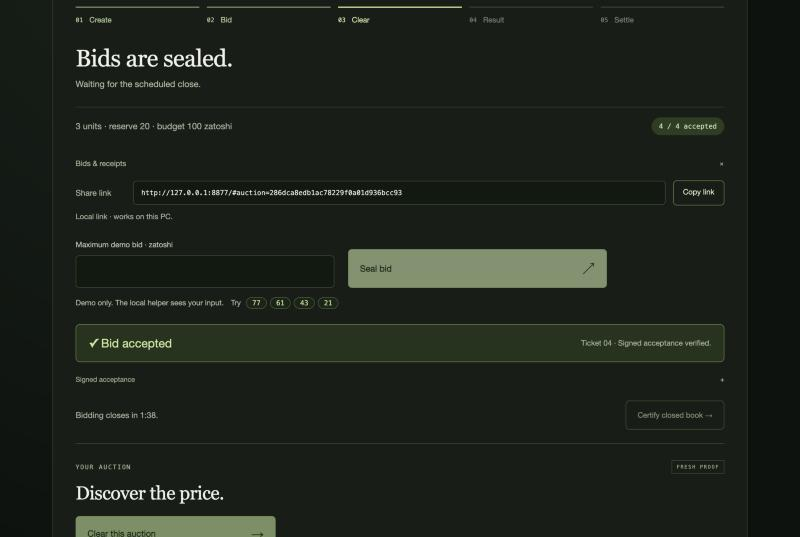
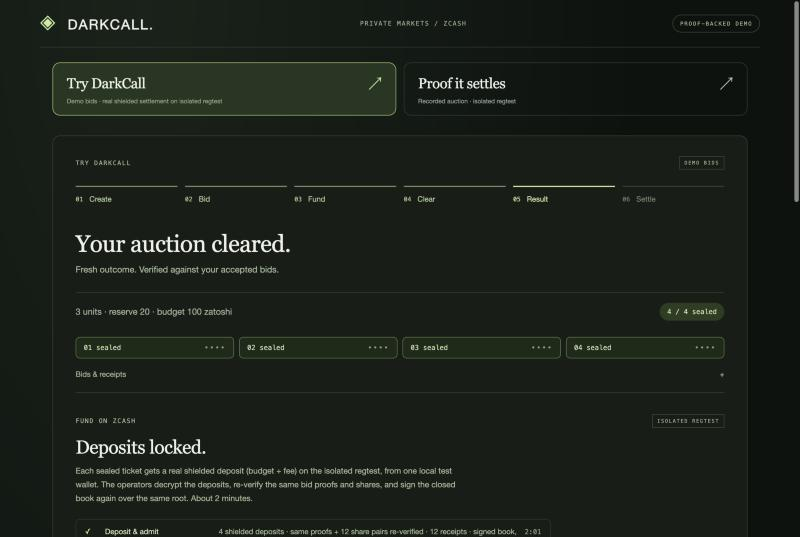
Make the first 20 seconds and every next step obvious
Landing now contrasts a typical audited auction (opens every bid) with
DarkCall (proves the price without opening bids). In the auction, a sticky
six-step bar keeps orientation, four sealed slots show hidden bids, clearing
appears only when it is the next real step, the page scrolls to each next
primary action and to errors, the clearing result states that no bid was
reconstructed, and the payment status reflects real locked deposits. Browser
check: create, four bids, certify, fund (deposits 59c06325...), clear (9.4 s),
with the new layout; README screenshots refreshed.

diff --git a/demo/app.js b/demo/app.js
@@ -141,7 +141,14 @@ function pickTicket(value) {
   refreshRoom();
 }
 const integer = id => { const text=$(id).value; if (!/^\d+$/.test(text)) throw new Error('Use whole-number demo values.'); return Number(text); };
-function rehearsalError(message) { $('rehearsal-error').textContent=message; $('rehearsal-error').hidden=!message; }
+function rehearsalError(message) { $('rehearsal-error').textContent=message; $('rehearsal-error').hidden=!message; if (message) $('rehearsal-error').scrollIntoView({behavior:'smooth',block:'center'}); }
+// Bring the next primary action into view after a step completes.
+function focusNext(id) { const node=$(id); if (node && !node.hidden) setTimeout(()=>node.scrollIntoView({behavior:'smooth',block:'center'}),150); }
+function renderSlots() {
+  const slots=$('sealed-slots'); if (!room) { slots.replaceChildren(); return; }
+  slots.replaceChildren(...[0,1,2,3].map(i=>{ const filled=i<room.accepted; const node=element('span',''); node.className=filled?'filled':'';
+    node.append(document.createTextNode(String(i+1).padStart(2,'0')+' '+(filled?'sealed':'open')),element('b',filled?'••••':'—')); return node; }));
+}
 function refreshRoom() {
   const available=Boolean(state && state.local_rehearsal_available);
   $('create-auction').disabled=busy || !available;
@@ -157,7 +164,8 @@ function refreshRoom() {
   if (!room) return;
   const remaining=Math.max(0,room.closes_at_utc-Math.floor(Date.now()/1000));
   $('room-terms').textContent=room.units+' units · reserve '+room.reserve+' · budget '+room.budget+' zatoshi';
-  $('room-count').textContent=room.accepted+' / 4 accepted';
+  $('room-count').textContent=room.accepted+' / 4 sealed';
+  renderSlots();
   $('maximum-bid').max=room.budget;
   $('seal-bid').disabled=busy || !available || room.stopped_after_incomplete_admission || remaining===0 || room.accepted>=4 || room.closed;
   $('close-auction').disabled=busy || !available || room.stopped_after_incomplete_admission || remaining>0 || room.accepted!==4 || room.closed;
@@ -167,10 +175,12 @@ function refreshRoom() {
   $('open-fresh-result').disabled=busy || settling || !room.clearing || !currentTicket();
   $('tamper-fresh').disabled=busy || settling || !room.clearing || !currentTicket();
   renderTicketPickers(); renderFunding();
+  // Clearing is shown once it is the next real step: after close, and after funding when required.
+  $('clearing-section').hidden=!room.closed || fundingPending;
   renderSettlement();
   $('clear-auction').hidden=Boolean(room.clearing);
   $('rehearsal-title').textContent=settled?'Your auction settled on Zcash.':room.clearing?'Your auction cleared.':room.closed?(fundingPending?'Fund the sealed book.':'Ready to clear.'):room.accepted===4?'Bids are sealed.':'Place your bid.';
-  document.querySelector('.rehearsal-scope').textContent=settled?'Same sealed book. One shielded transaction. Publicly verified.':room.clearing?'Fresh outcome. Verified against your accepted bids.':room.closed?(fundingPending?'Every sealed ticket gets a real shielded deposit before clearing.':'Four sealed bids. One verified outcome.'):room.accepted===4?'Waiting for the scheduled close.':'Use demo amounts. Get a signed acceptance.';
+  document.querySelector('.rehearsal-scope').textContent=settled?'Same sealed book. One shielded transaction. Publicly verified.':room.clearing?'Fresh outcome. Verified against your accepted bids.':room.closed?(fundingPending?'Every sealed ticket gets a real shielded deposit before clearing.':'Four sealed bids. One verified outcome.'):room.accepted===4?'Waiting for the scheduled close.':'Seal four demo bids. Each gets a ZK proof and three operator signatures.';
   $('close-status').textContent=room.stopped_after_incomplete_admission ? 'Admission stopped. The checkpoint is preserved.' : room.closed ? '✓ Closed bids certified.' :
     remaining>0 ? 'Bidding closes in '+Math.floor(remaining/60)+':'+String(remaining%60).padStart(2,'0')+'.' :
     room.accepted===4 ? 'Deadline reached. Confirm the accepted bids.' : 'Closed. Four tickets are required.';
@@ -191,7 +201,8 @@ async function rehearsalRequest(action,payload) {
   const result=await response.json(); if (!response.ok) throw new Error(result.error || 'Local rehearsal stopped.'); return result;
 }
 function resetFresh() {
-  $('rehearsal-label').textContent='DEMO BIDS';
+  $('rehearsal-label').textContent='DEMO BIDS'; fundedFocused=false; settledFocused=false;
+  for (const id of ['clearing-section','fund-section','settle-section']) $(id).hidden=true;
   freshClearingVerified=false; freshResultVerified=false; nativeResultVerified=false; $('book-details').open=true;
   $('native-result').className='result-box'; $('native-result').replaceChildren(element('h3','Your receipt is encrypted.'),element('p','Only your viewing key can open your memo in this transaction.'));
   $('native-tamper-result').textContent='';
@@ -218,7 +229,7 @@ $('clear-auction').addEventListener('click',async()=>{
   $('clearing-status').textContent='Clearing these secret shares and generating a fresh MPC proof…';
   try {
     const result=await rehearsalRequest('clear',{auction_id:room.auction_id});
-    renderFresh(result); room.clearing=result; room.fresh_clearing_verified=true;
+    renderFresh(result); room.clearing=result; room.fresh_clearing_verified=true; focusNext('open-fresh-result');
     $('rehearsal-status').textContent='';
     $('book-details').open=false;
   } catch(error) {
@@ -245,6 +256,7 @@ async function openFresh(action) {
       box.replaceChildren(element('h3',result.won?'YOU WON':'YOU LOST'),element('p',result.won?'1 unit @ '+result.price+' zatoshi':'No unit allocated. Your outcome is verified.'));
       const amounts=element('div','','receipt-amounts'), column=element('div','');
       column.append(element('span','Refund entitlement · zatoshi'),element('strong',String(result.refund))); amounts.append(column); box.append(amounts,element('p','✓ Your result verified'));
+      if (room.settlement_available && !room.settlement) focusNext('settle-auction');
     }
   } catch(error) {
     if (action==='open') {
@@ -260,13 +272,14 @@ async function openFresh(action) {
 const SETTLE_STEPS=[['mpc','settle_preflight:started','binding_key:started'],
   ['bindings','binding_key:started','mpc_verification:started'],['sign','mpc_verification:started','settlement:done'],
   ['verify','public_verification:started','public_verification:done']];
-let settlePoll=null, nativeResultVerified=false;
+let settlePoll=null, nativeResultVerified=false, fundedFocused=false, settledFocused=false;
 const shortId=value=>value?value.slice(0,10)+'…'+value.slice(-8):'—';
 function minutes(seconds) { seconds=Math.max(0,Math.round(seconds)); return Math.floor(seconds/60)+':'+String(seconds%60).padStart(2,'0'); }
 function renderSettlement() {
   const section=$('settle-section'), job=room && room.settlement, settledState=Boolean(job && job.state==='done');
   $('rehearsal-label').textContent=settledState?'SETTLED · REGTEST':job?'SETTLING · REGTEST':'DEMO BIDS';
-  $('payment-status').textContent=settledState?'Paid in one shielded regtest transaction ↓':job?'Settlement on regtest in progress ↓':'Demo funds · no payment sent yet';
+  const fundedState=Boolean(room && room.funding && room.funding.state==='done');
+  $('payment-status').textContent=settledState?'Paid in one shielded regtest transaction ↓':job?'Settlement on regtest in progress ↓':fundedState?'Real deposits locked · paid out at Settle ↓':'No deposit yet · funding comes after the close';
   section.hidden=!(room && room.clearing);
   if (section.hidden) return;
   const available=Boolean(room.settlement_available);
@@ -296,6 +309,7 @@ function renderSettlement() {
   $('settle-status').textContent=failed?(job.error||'Settlement stopped.'):job.state==='done'?'✓ Settled and publicly verified · '+minutes(result.settlement_seconds+result.public_verification_seconds)+' of proving and checks':'Running · '+total+' elapsed · other proofs wait until this finishes';
   $('settle-outcome').hidden=job.state!=='done';
   if (job.state==='done') {
+    if (!settledFocused) { settledFocused=true; focusNext('settle-txid'); }
     if (result.accepted_root!==room.accepted_root || result.price!==room.clearing.price || result.sold!==room.clearing.sold) { $('settle-status').textContent='Settlement result does not match this auction.'; $('settle-outcome').hidden=true; return; }
     $('settle-txid').textContent=result.txid; $('settle-deposit').textContent=result.deposit_txid;
     $('know-public').textContent='Price '+result.price+' zatoshi, '+result.sold+' of '+room.units+' sold, one shielded transaction and its proofs.';
@@ -326,6 +340,7 @@ function renderFunding() {
   $('fund-status').textContent=failed?(job.error||'Funding stopped.'):done?'✓ Funded and admitted on regtest. Now clear the book.':'Running · '+minutes(now-job.started_at_unix)+' elapsed · includes a 120 s admission window';
   if (done && job.result) {
     if (job.result.accepted_root!==room.accepted_root) { $('fund-status').textContent='Funding does not match this book.'; return; }
+    if (!fundedFocused) { fundedFocused=true; focusNext('clear-auction'); }
     $('fund-deposit').textContent=job.result.deposit_txid;
     $('fund-admission').textContent='✓ '+job.result.client_proofs+' bid proofs + '+job.result.share_pairs+' share pairs re-verified · '+job.result.receipt_signatures+' receipts · '+job.result.final_book_signatures+' book signatures · same root '+shortId(job.result.accepted_root);
   }
@@ -426,6 +441,7 @@ $('create-form').addEventListener('submit',async event=>{
     const result=await rehearsalRequest('create',{units:integer('create-units'),reserve:integer('create-reserve'),budget:integer('create-budget'),closes_at_utc:cutoff});
     showRoom(result); history.replaceState(null,'','#auction='+room.auction_id);
     $('rehearsal-status').textContent='✓ Auction created. Share the local link and seal a demo bid.';
+    focusNext('maximum-bid');
   } catch (error) { rehearsalError(error.message); $('rehearsal-status').textContent=''; }
   finally { lock(false); refreshRoom(); }
 });
@@ -442,6 +458,7 @@ $('bid-form').addEventListener('submit',async event=>{
     $('copy-acceptance').hidden=false; $('acceptance-details').hidden=false;
     $('acceptance-public').textContent=JSON.stringify({client_input_proof_verified:true,share_pairs_verified:3,receipt_signatures_verified:3,ticket:result.ticket,commitment:result.commitment,receipt:result.receipt},null,2);
     $('rehearsal-status').textContent='✓ Bid sealed and pre-checked in '+result.seconds.toFixed(1)+' seconds.';
+    if (room.accepted===4) focusNext('close-auction');
   } catch (error) {
     rehearsalError(error.message); $('rehearsal-status').textContent='';
     try {
@@ -458,6 +475,7 @@ $('close-auction').addEventListener('click',async()=>{
     if (!result.closed || result.funding_scope!=='offline-synthetic' || result.fresh_clearing_or_settlement) throw new Error('Unexpected book certification.');
     room.closed=true; room.accepted_root=result.accepted_root;
     $('rehearsal-status').textContent=room.funding_required?'✓ Bids locked. Fund them on Zcash next.':'✓ Bids locked. Ready to clear.';
+    refreshRoom(); focusNext(room.funding_required?'fund-auction':'clear-auction');
   } catch(error) { rehearsalError(error.message); }
   finally { lock(false); refreshRoom(); }
 });

diff --git a/demo/index.html b/demo/index.html
@@ -16,7 +16,11 @@
   <main>
     <section class="intro">
       <h1>Sealed bids.<br><em>Verifiable settlement.</em></h1>
-      <p class="lead">A sealed-bid auction settled privately on Zcash.</p>
+      <p class="lead">Bids stay secret-shared. Three operators compute one fair price by MPC and prove it. One shielded Zcash transaction pays everyone, bound to that proof.</p>
+      <div class="contrast" aria-label="How DarkCall differs">
+        <div class="contrast-side typical"><span class="contrast-label">Typical audited auction</span><div class="contrast-bids"><b>77</b><b>61</b><b>43</b><b>21</b></div><p>Opens every bid after the close so anyone can check the price.</p></div>
+        <div class="contrast-side darkcall"><span class="contrast-label">DarkCall</span><div class="contrast-bids"><b>••</b><b>••</b><b>••</b><b>••</b><i>price 21 ✓ proof</i></div><p>Proves the price without opening the bids. Each bidder decrypts only their own result.</p></div>
+      </div>
       <div class="landing-facts"><span><b>Public</b>clearing price · units sold · proofs</span><span><b>Never published</b>who bid what · who won · refunds</span><span><b>Settled</b>one shielded transaction anyone can verify</span></div>
     </section>
     <nav class="experience-picker" aria-label="Choose an experience">
@@ -37,6 +41,7 @@
       </form>
       <div id="auction-room" hidden>
         <div class="room-summary"><span id="room-terms"></span><strong id="room-count">0 / 4 accepted</strong></div>
+        <div id="sealed-slots" class="sealed-slots" aria-label="Sealed tickets"></div>
         <details id="book-details" class="book-details" open><summary>Bids &amp; receipts <span>+</span></summary>
         <div class="share-row"><label for="auction-link">Share link</label><input id="auction-link" readonly><button id="copy-auction-link" class="secondary-button" type="button">Copy link</button></div>
         <p class="form-note">Local link · works on this PC.</p>
@@ -61,7 +66,7 @@
           <p id="fund-status" class="check-result" aria-live="polite"></p>
           <dl id="fund-facts" class="settle-facts" hidden><dt>Deposit transaction</dt><dd id="fund-deposit">—</dd><dt>Chain admission</dt><dd id="fund-admission">—</dd></dl>
         </section>
-        <section class="fresh-clearing" aria-label="Clear this new auction">
+        <section id="clearing-section" class="fresh-clearing" hidden aria-label="Clear this new auction">
           <div class="panel-top"><span class="eyebrow">YOUR AUCTION</span><span class="recorded-label">FRESH PROOF</span></div>
           <h3 id="clearing-title">Discover the price.</h3>
           <button id="clear-auction" class="primary-button" type="button">Clear this auction <span>→</span></button>
@@ -69,7 +74,7 @@
           <div id="fresh-outcome" hidden>
             <div class="fresh-result-layout"><div class="fresh-market">
             <div class="market-stats"><div><span>CLEARING PRICE</span><strong id="fresh-price">—</strong><small>zatoshi / unit</small></div><div><span>SOLD</span><strong id="fresh-sold">—</strong><small>units</small></div></div>
-            <p class="book-caption">One price for every winner.</p><p id="payment-status" class="payment-status">Demo funds · no payment sent yet</p>
+            <p class="book-caption">One price for every winner. Computed by three operators on secret shares; no bid was reconstructed.</p><p id="payment-status" class="payment-status">No deposit yet · funding comes after the close</p>
             </div><div class="fresh-receipt">
             <label class="ticket-pick" hidden>Ticket sealed in this page<select id="my-ticket"></select></label>
             <div id="fresh-result" class="result-box" aria-live="polite"><h3>Still sealed.</h3><p>Open the ticket accepted in this browser session.</p></div>

diff --git a/demo/style.css b/demo/style.css
@@ -795,3 +795,23 @@ input:focus {outline:1px solid var(--accent);outline-offset:1px}
 .bid-suggest button:hover {border-color:var(--accent)}
 .fund-section {border-top:0;margin-top:8px}
 .fund-section .settle-steps li {grid-template-columns:20px 170px 1fr auto}
+
+/* Landing contrast: the one idea a judge should take away in seconds. */
+.contrast {display:grid;grid-template-columns:1fr 1fr;gap:14px;margin:26px 0 8px;max-width:900px}
+.contrast-side {border:1px solid #33422e;border-radius:10px;padding:16px 18px;background:#141c13}
+.contrast-side.darkcall {border-color:#6f9351;background:#1b2717}
+.contrast-label {font:10px var(--mono);letter-spacing:1.4px;text-transform:uppercase;color:#93a387}
+.darkcall .contrast-label {color:var(--accent)}
+.contrast-bids {display:flex;flex-wrap:wrap;align-items:center;gap:8px;margin:12px 0 10px}
+.contrast-bids b {font:500 15px var(--mono);border:1px solid #44523d;border-radius:6px;padding:6px 10px;color:#d6dfcc;min-width:42px;text-align:center}
+.typical .contrast-bids b {text-decoration:line-through;text-decoration-color:#c98a72;color:#e5b9a8}
+.darkcall .contrast-bids b {color:#8fa385;letter-spacing:2px}
+.contrast-bids i {font:600 13px var(--mono);font-style:normal;color:var(--accent);margin-left:4px}
+.contrast-side p {margin:0;font-size:13px;line-height:1.55;color:#c2cfb7}
+/* Orientation: keep the step bar visible while the auction scrolls. */
+.auction-progress {position:sticky;top:0;z-index:5;background:#171e17;padding-bottom:10px;margin-left:-4px;margin-right:-4px;padding-left:4px;padding-right:4px}
+.sealed-slots {display:grid;grid-template-columns:repeat(4,1fr);gap:8px;margin:0 0 6px}
+.sealed-slots span {border:1px dashed #3a4934;border-radius:7px;padding:10px 12px;font:11px var(--mono);color:#6f7d69;display:flex;justify-content:space-between;align-items:center}
+.sealed-slots span.filled {border-style:solid;border-color:#5f7d47;color:#cfe4b6;background:#1d2a18}
+.sealed-slots span b {font-weight:400;letter-spacing:2px;color:#8fa385}
+@media(max-width:760px) {.contrast {grid-template-columns:1fr} .sealed-slots {grid-template-columns:1fr 1fr}}

diff --git a/README.md b/README.md
@@ -96,10 +96,10 @@ recorded settlement `47019e02…a211938` with fixture bids. Exact records:
 [recorded settlement](evidence/2026-10-05-canonical-funded-nu7-memo-auction.json).
 
 <table>
-<tr><td><img src="docs/img/02-bids-sealed.jpg" alt="Four bids sealed with client ZK proofs and operator pre-check signatures"></td>
-<td><img src="docs/img/03-funded.jpg" alt="Deposits locked on Zcash regtest and admitted over the same root"></td></tr>
-<tr><td>Four sealed bids, each with a client ZK proof and three operator signatures.</td>
-<td>Fund on Zcash: real shielded deposits, admitted over the same root, before any clearing.</td></tr>
+<tr><td><img src="docs/img/01-landing.jpg" alt="Landing: a typical audited auction opens every bid; DarkCall proves the price without opening them"></td>
+<td><img src="docs/img/02-bids-sealed.jpg" alt="Six steps, four sealed tickets, and real deposits locked before clearing"></td></tr>
+<tr><td>The difference in one glance: prove the price without opening the bids.</td>
+<td>Four sealed tickets; real shielded deposits admitted over the same root before any clearing.</td></tr>
 <tr><td><img src="docs/img/05-settled.jpg" alt="Settlement stages done, who learned what, and the settlement transaction"></td>
 <td><img src="docs/img/06-shielded-receipt-tamper.jpg" alt="A losing ticket's shielded refund decrypted, and a corrupted receipt proof rejected"></td></tr>
 <tr><td>Settle: MPC delivery, six output bindings, FROST signing, confirmations, public check.</td>
